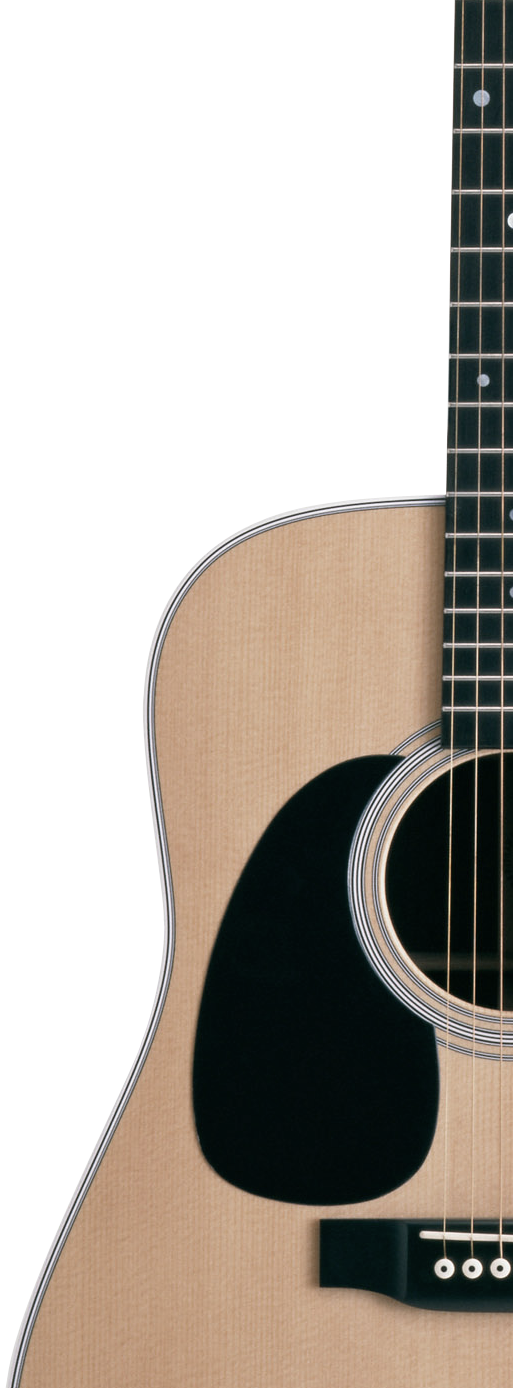
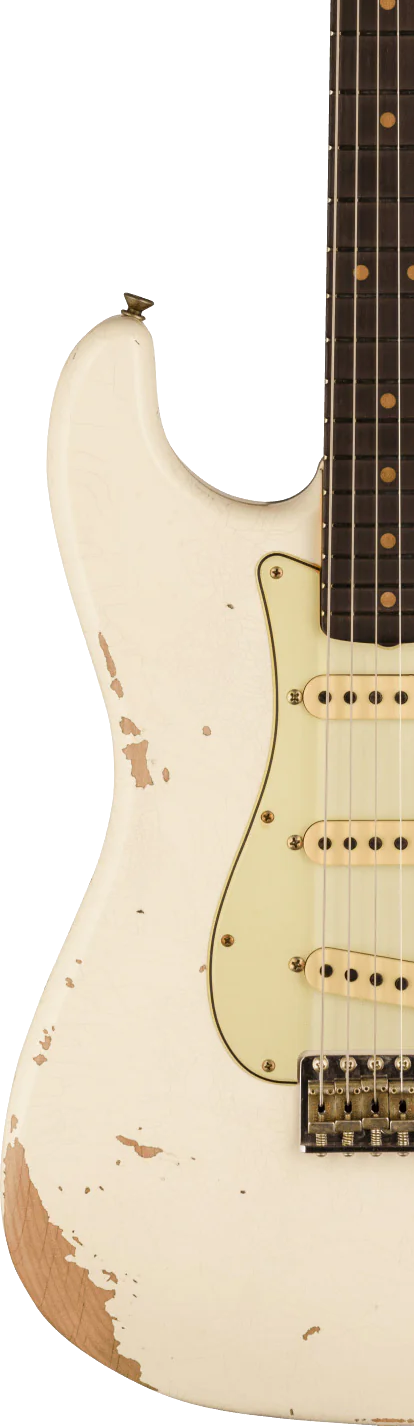
general updates + UI fixes

diff --git a/index.html b/index.html
@@ -410,13 +410,16 @@ c-24 0 -38 5 -42 17 -6 14 -25 15 -192 9 -102 -3 -190 -11 -195 -16 -6 -6 -45
 
         <div class="about2" id="about" data-aos="fade-up" data-aos-delay="200">
             <div class="about2Text" data-aos="fade-up" data-aos-delay="400">
-                <p>I am a software developer from Barcelona.
-                    Throughout my life I have established myself as a 
-                    creative-thinker with great passion for technologies.</p>
-                <p>Graphic design, music production and coding are some of the fields I enjoy 
-                    the most.</p>
-                <p>With that, I am always willing to humble myself to continue growing as both a developer 
-                    and as an individual.</p>
+                <p>Throughout my life I have established myself as a 
+                    creative-thinker with great passion for technologies.
+                    Coding, graphic design and music production are some of the fields I enjoy 
+                    the most.
+                </p>
+                <p>Specializing in building scalable web and mobile applications using React,
+                    I enjoy turning complex requirements into intuitive, high-quality user experiences, 
+                    with a strong focus on performance, maintainability, and clean architecture. 
+                </p>
+                <p>I value collaboration with design and product teams to deliver polished and user-centered solutions.</p>
                 <p><a href="static/docs/CV.pdf" class="link">Learn more ></a></p>
             </div>
             <div>
@@ -432,11 +435,21 @@ c-24 0 -38 5 -42 17 -6 14 -25 15 -192 9 -102 -3 -190 -11 -195 -16 -6 -6 -45
             <div class="timeline">
                 <ul>
                     <li>
+                        <a href="https://www.oracle.com/">
+                        <div class="job">
+                            <image src="/static/img/oracle.png"></image>
+                            <h2>Software Engineer</h2>
+                            <p>March 2024 - Current</p>
+                        </div>
+                        </a>
+                    </li>
+
+                    <li>
                         <a href="https://slashmobility.com/?lang=en">
                         <div class="job">
                             <image src="/static/img/slashmobility.png"></image>
-                            <h2>Software Developer</h2>
-                            <p>Current position</p>
+                            <h2>Frontend Engineer</h2>
+                            <p>January 2022 - March 2024</p>
                         </div>
                         </a>
                     </li>
@@ -446,7 +459,7 @@ c-24 0 -38 5 -42 17 -6 14 -25 15 -192 9 -102 -3 -190 -11 -195 -16 -6 -6 -45
                         <div class="job">
                             <image src="/static/img/guidewire.png"></image>
                             <h2>Consultant developer intern</h2>
-                            <p>June 2021</p>
+                            <p>June 2021 - September 2021</p>
                         </div>
                         </a>
                     </li>

diff --git a/static/main.css b/static/main.css
@@ -107,6 +107,7 @@ button:hover {
 
 .about1 {
     padding-top: 80px;
+    margin: 20px 0;
 }
 
 .about1 h1 {
@@ -145,6 +146,7 @@ button:hover {
 
 .about2Text {
     margin: auto;
+    max-width: 1000px;
 }
 
 .about2Text p {
@@ -156,7 +158,7 @@ button:hover {
 .parallax1 {
     background: url('img/about.jpg') no-repeat center;
     background-size: cover;
-    height: 500px;
+    max-height: 800px;
 }
 
 /* END ABOUT SECTIONS */
@@ -165,7 +167,7 @@ button:hover {
 
 .experience {
     overflow: hidden;
-    margin-bottom: 40px;
+    margin: 30px 0;
 }
 
 .experience a {
@@ -179,7 +181,7 @@ button:hover {
 
 .timeline {
     width: 80%;
-    margin: 0 auto;
+    margin: 25px auto 0;
 }
 
 .timeline ul {
@@ -217,7 +219,7 @@ button:hover {
 /* PROJECTS */
 
 .projectsShade {
-    height: 150vh;
+    height: 100vh;
     margin-top: 50px;
     margin-top: 50px;
     background-image: linear-gradient(to bottom, rgba(187,210,197,0) 0%, rgba(187,210,197,1) 25%, rgba(83,105,118,1) 70%, rgba(41,46,73,1) 100%);
@@ -243,6 +245,7 @@ button:hover {
     display: flex;
     flex-direction: column;
     align-items: center;
+    justify-content: space-evenly;
     gap: 30px;
     padding: 30px;
     margin-bottom: 50px;
@@ -373,7 +376,7 @@ button:hover {
     .timeline::before {
         content: '';
         position: absolute;
-        height: 420px;
+        height: 720px;
         width: 2px;
         background-image: linear-gradient(to bottom, #2f2f2f, #2f2f2f,#fbfbfd);
         transform: translateX(-50%);
@@ -476,11 +479,20 @@ button:hover {
 
     .about1 {
         padding-top: 100px;
+        margin: 70px 0;
     }
     
     .about1 p {
         padding: 10px 40px 80px;
         text-align: center;
+    }
+
+    .guitar-img {
+        max-height: 1100px;
+    }
+
+    .timeline {
+        margin: 70px auto 0;
     }
 
     .parallax1 {